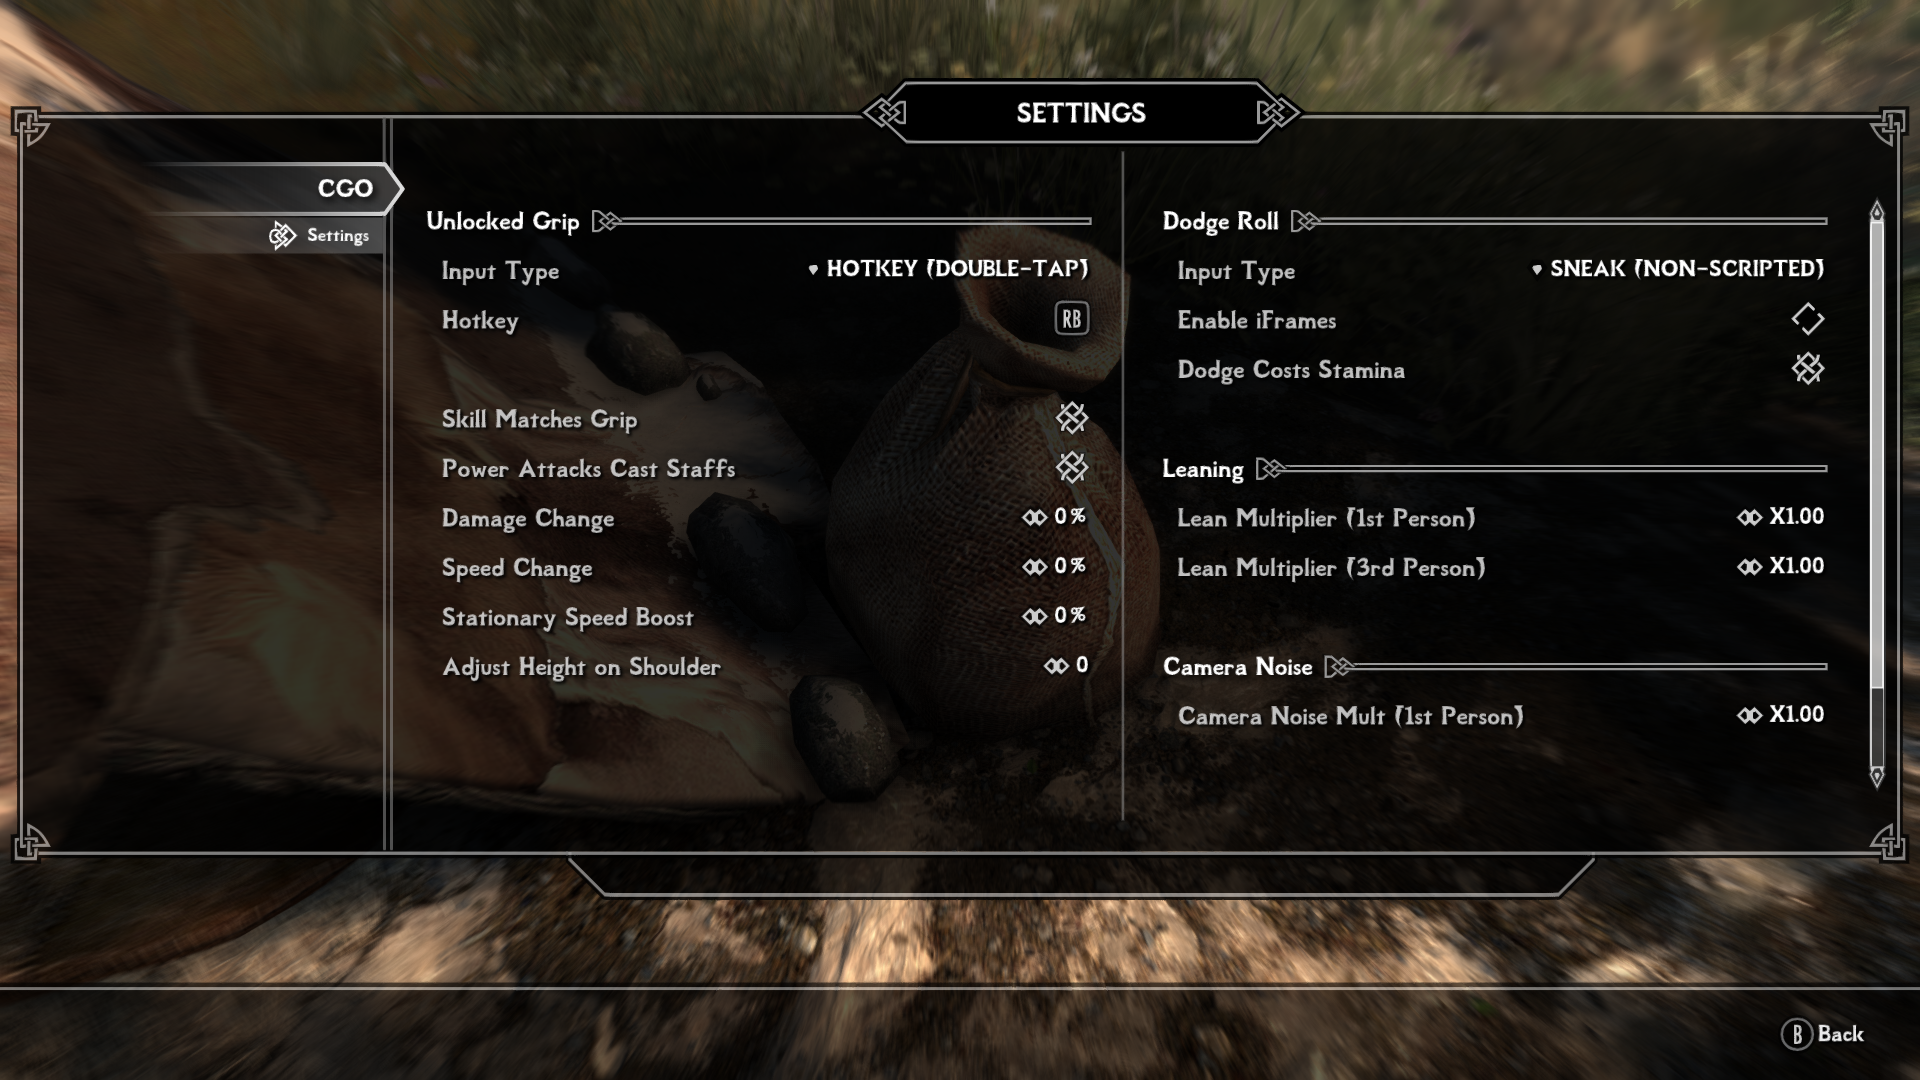
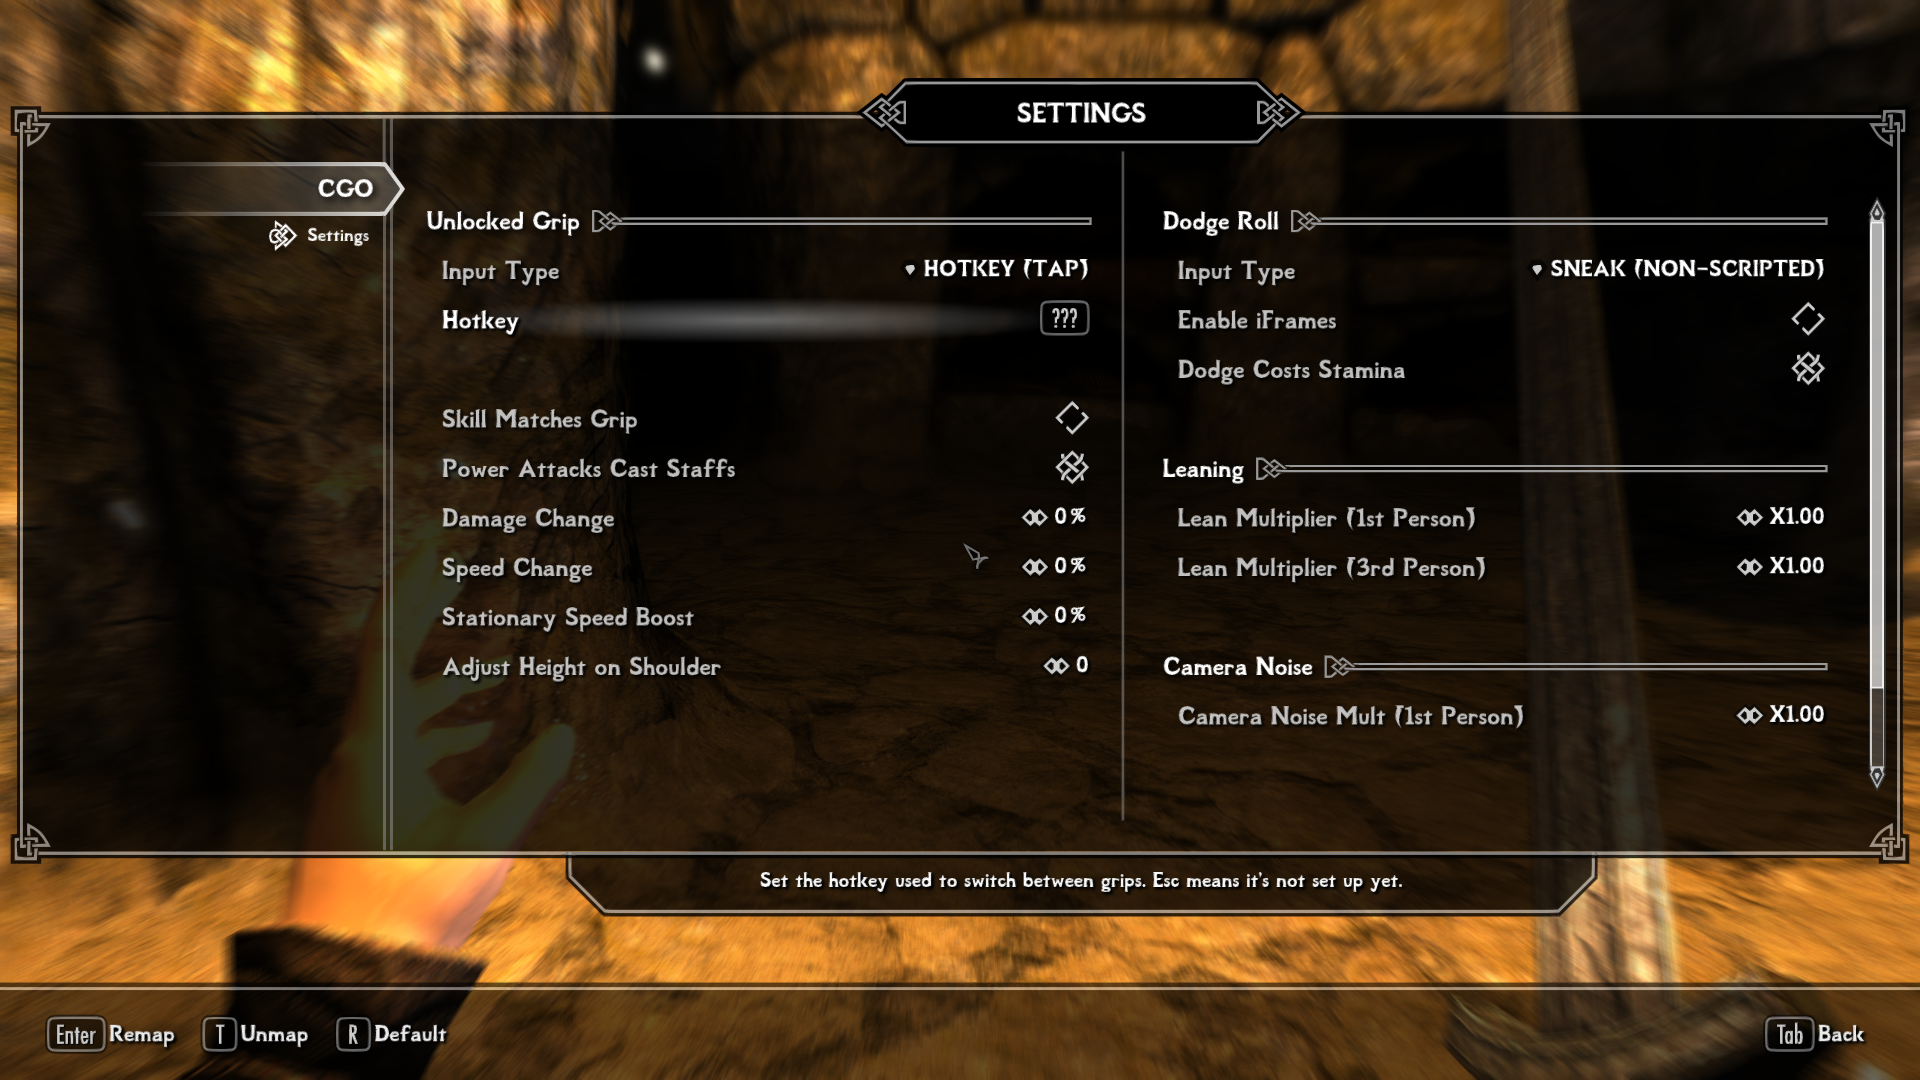
update cgo instructions

diff --git a/SETUP.md b/SETUP.md
@@ -94,9 +94,11 @@ In-Game Date
 
 ### CGO
 
-- Input Type - As you prefer
+- Input Type - Left untouched (Not compatible with Requiem)
 
-- Hotkey - As you prefer (I am using a gamepad)
+- Hotkey - Press "T" to Unmap
+
+- Skill Matches Grip - Disabled.
 
 Set the boosts for grip change to 0%
 
